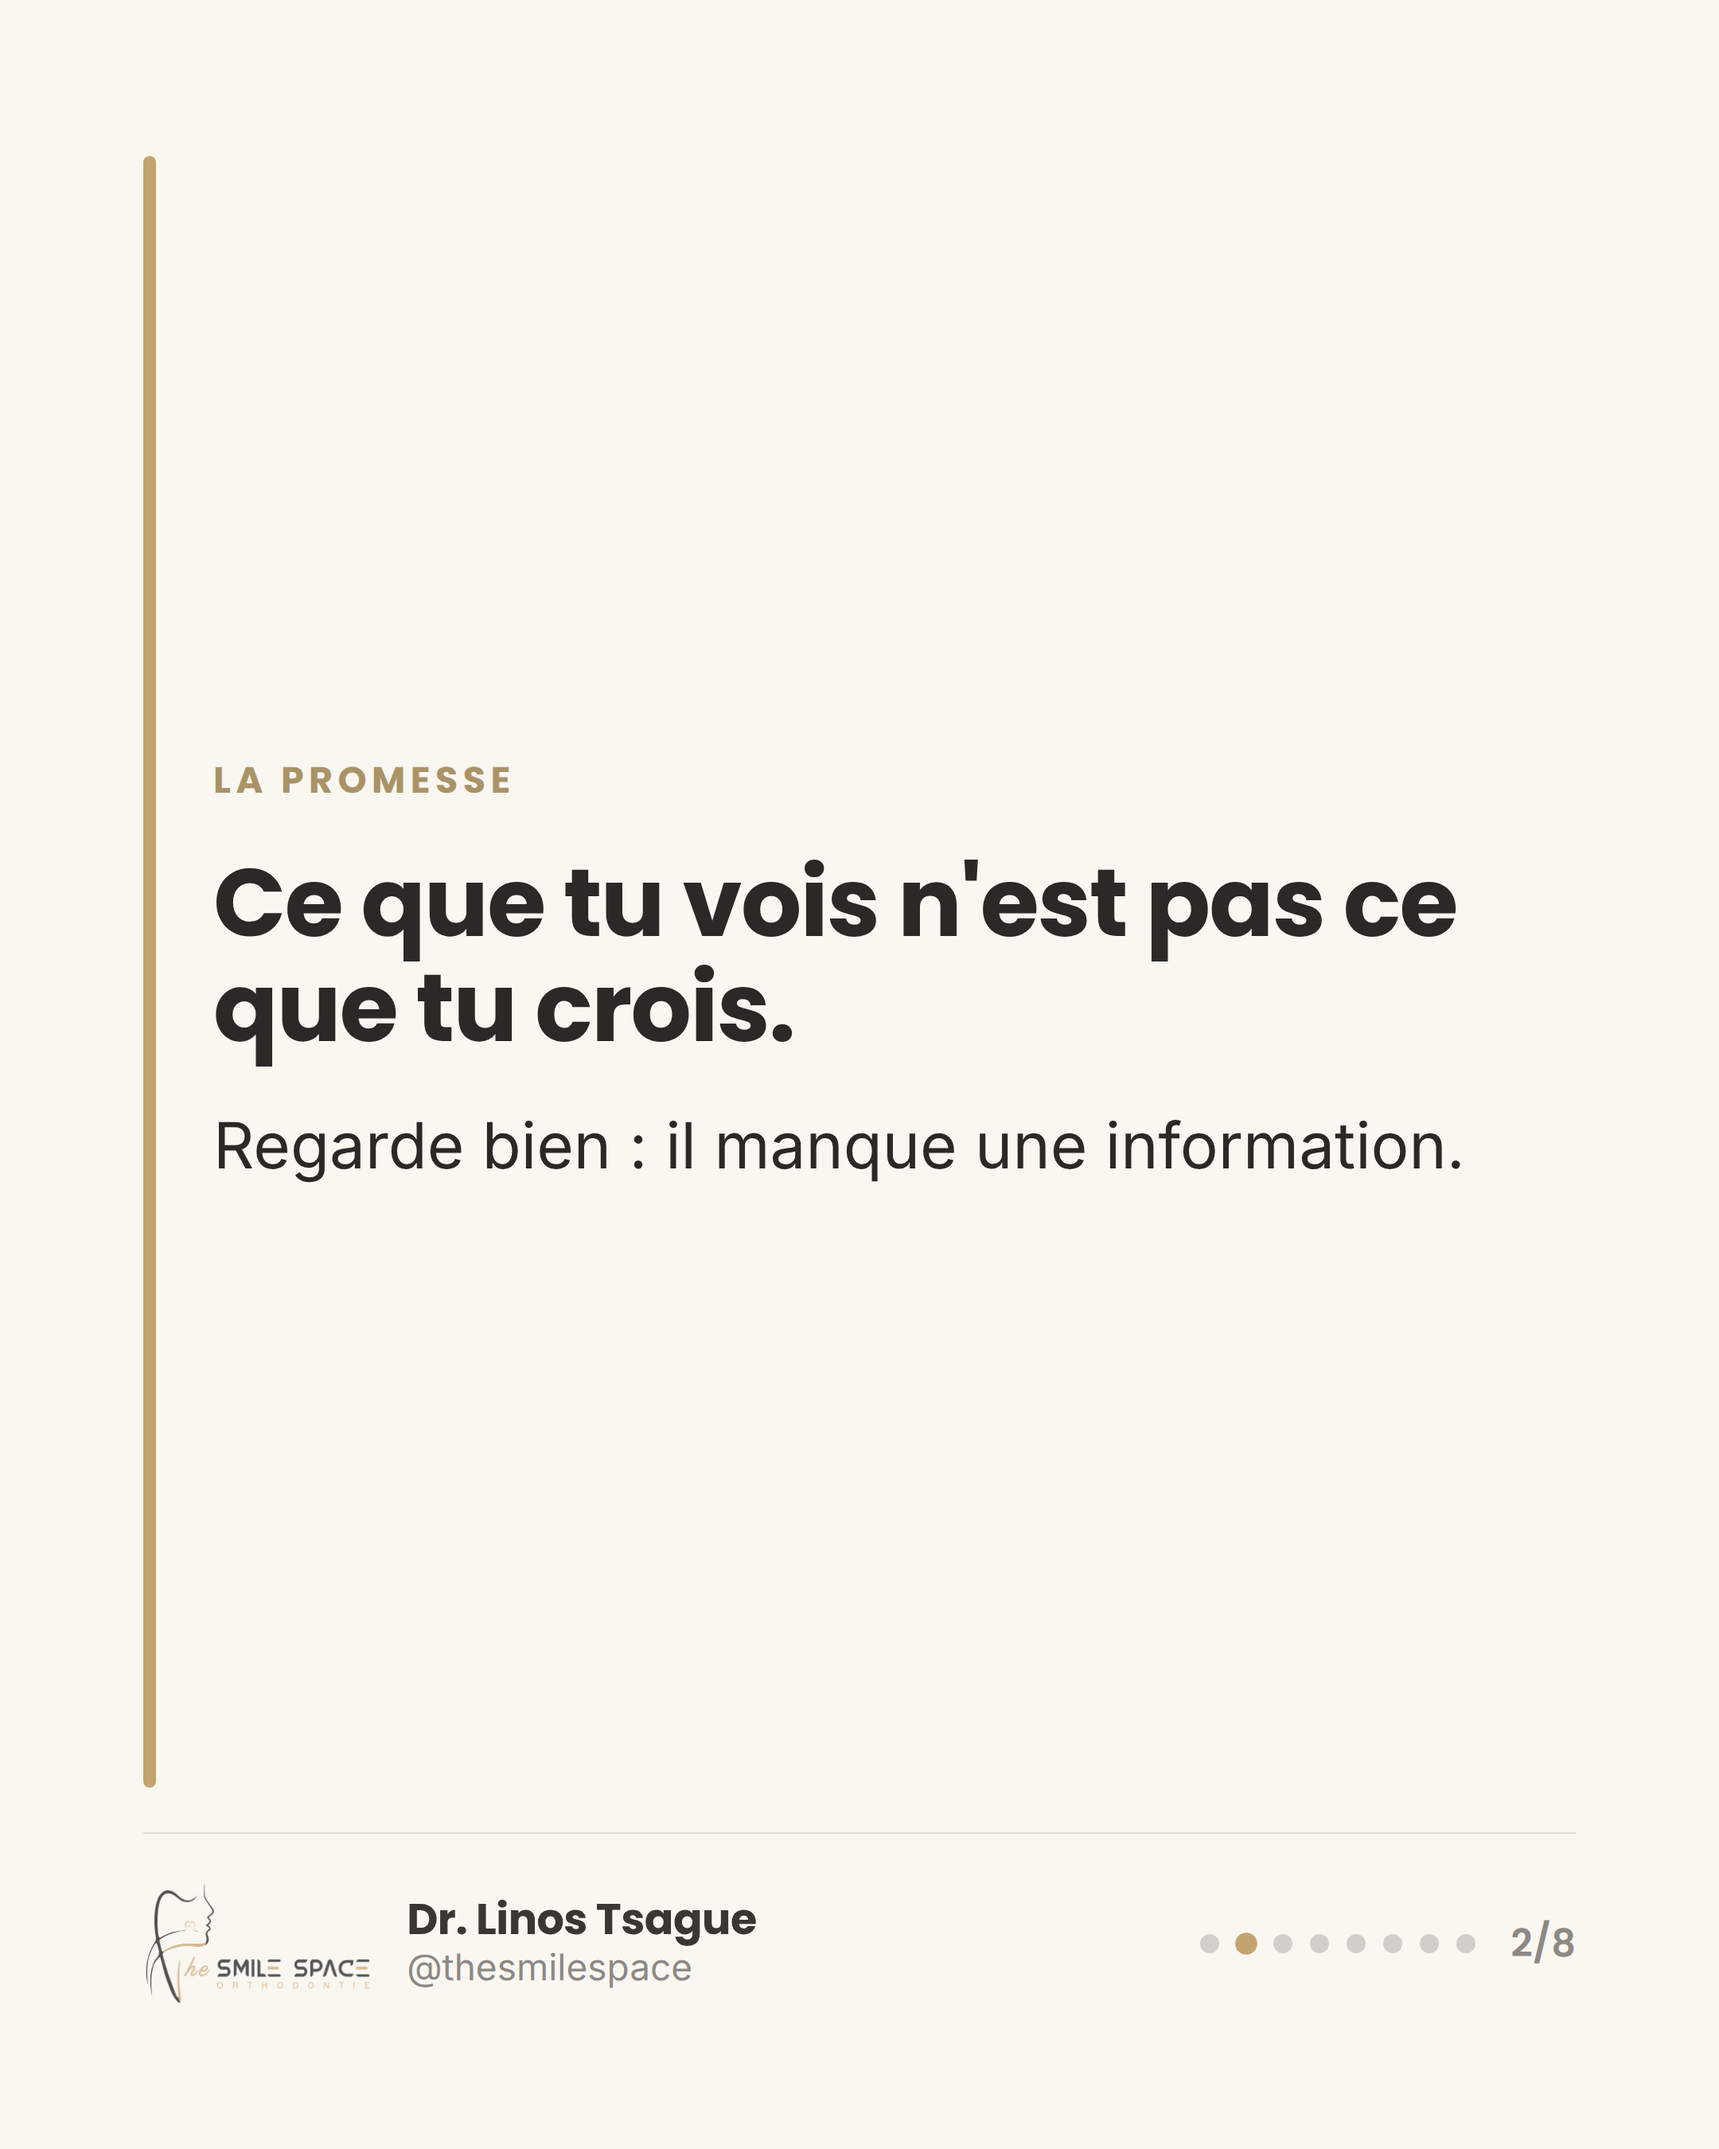
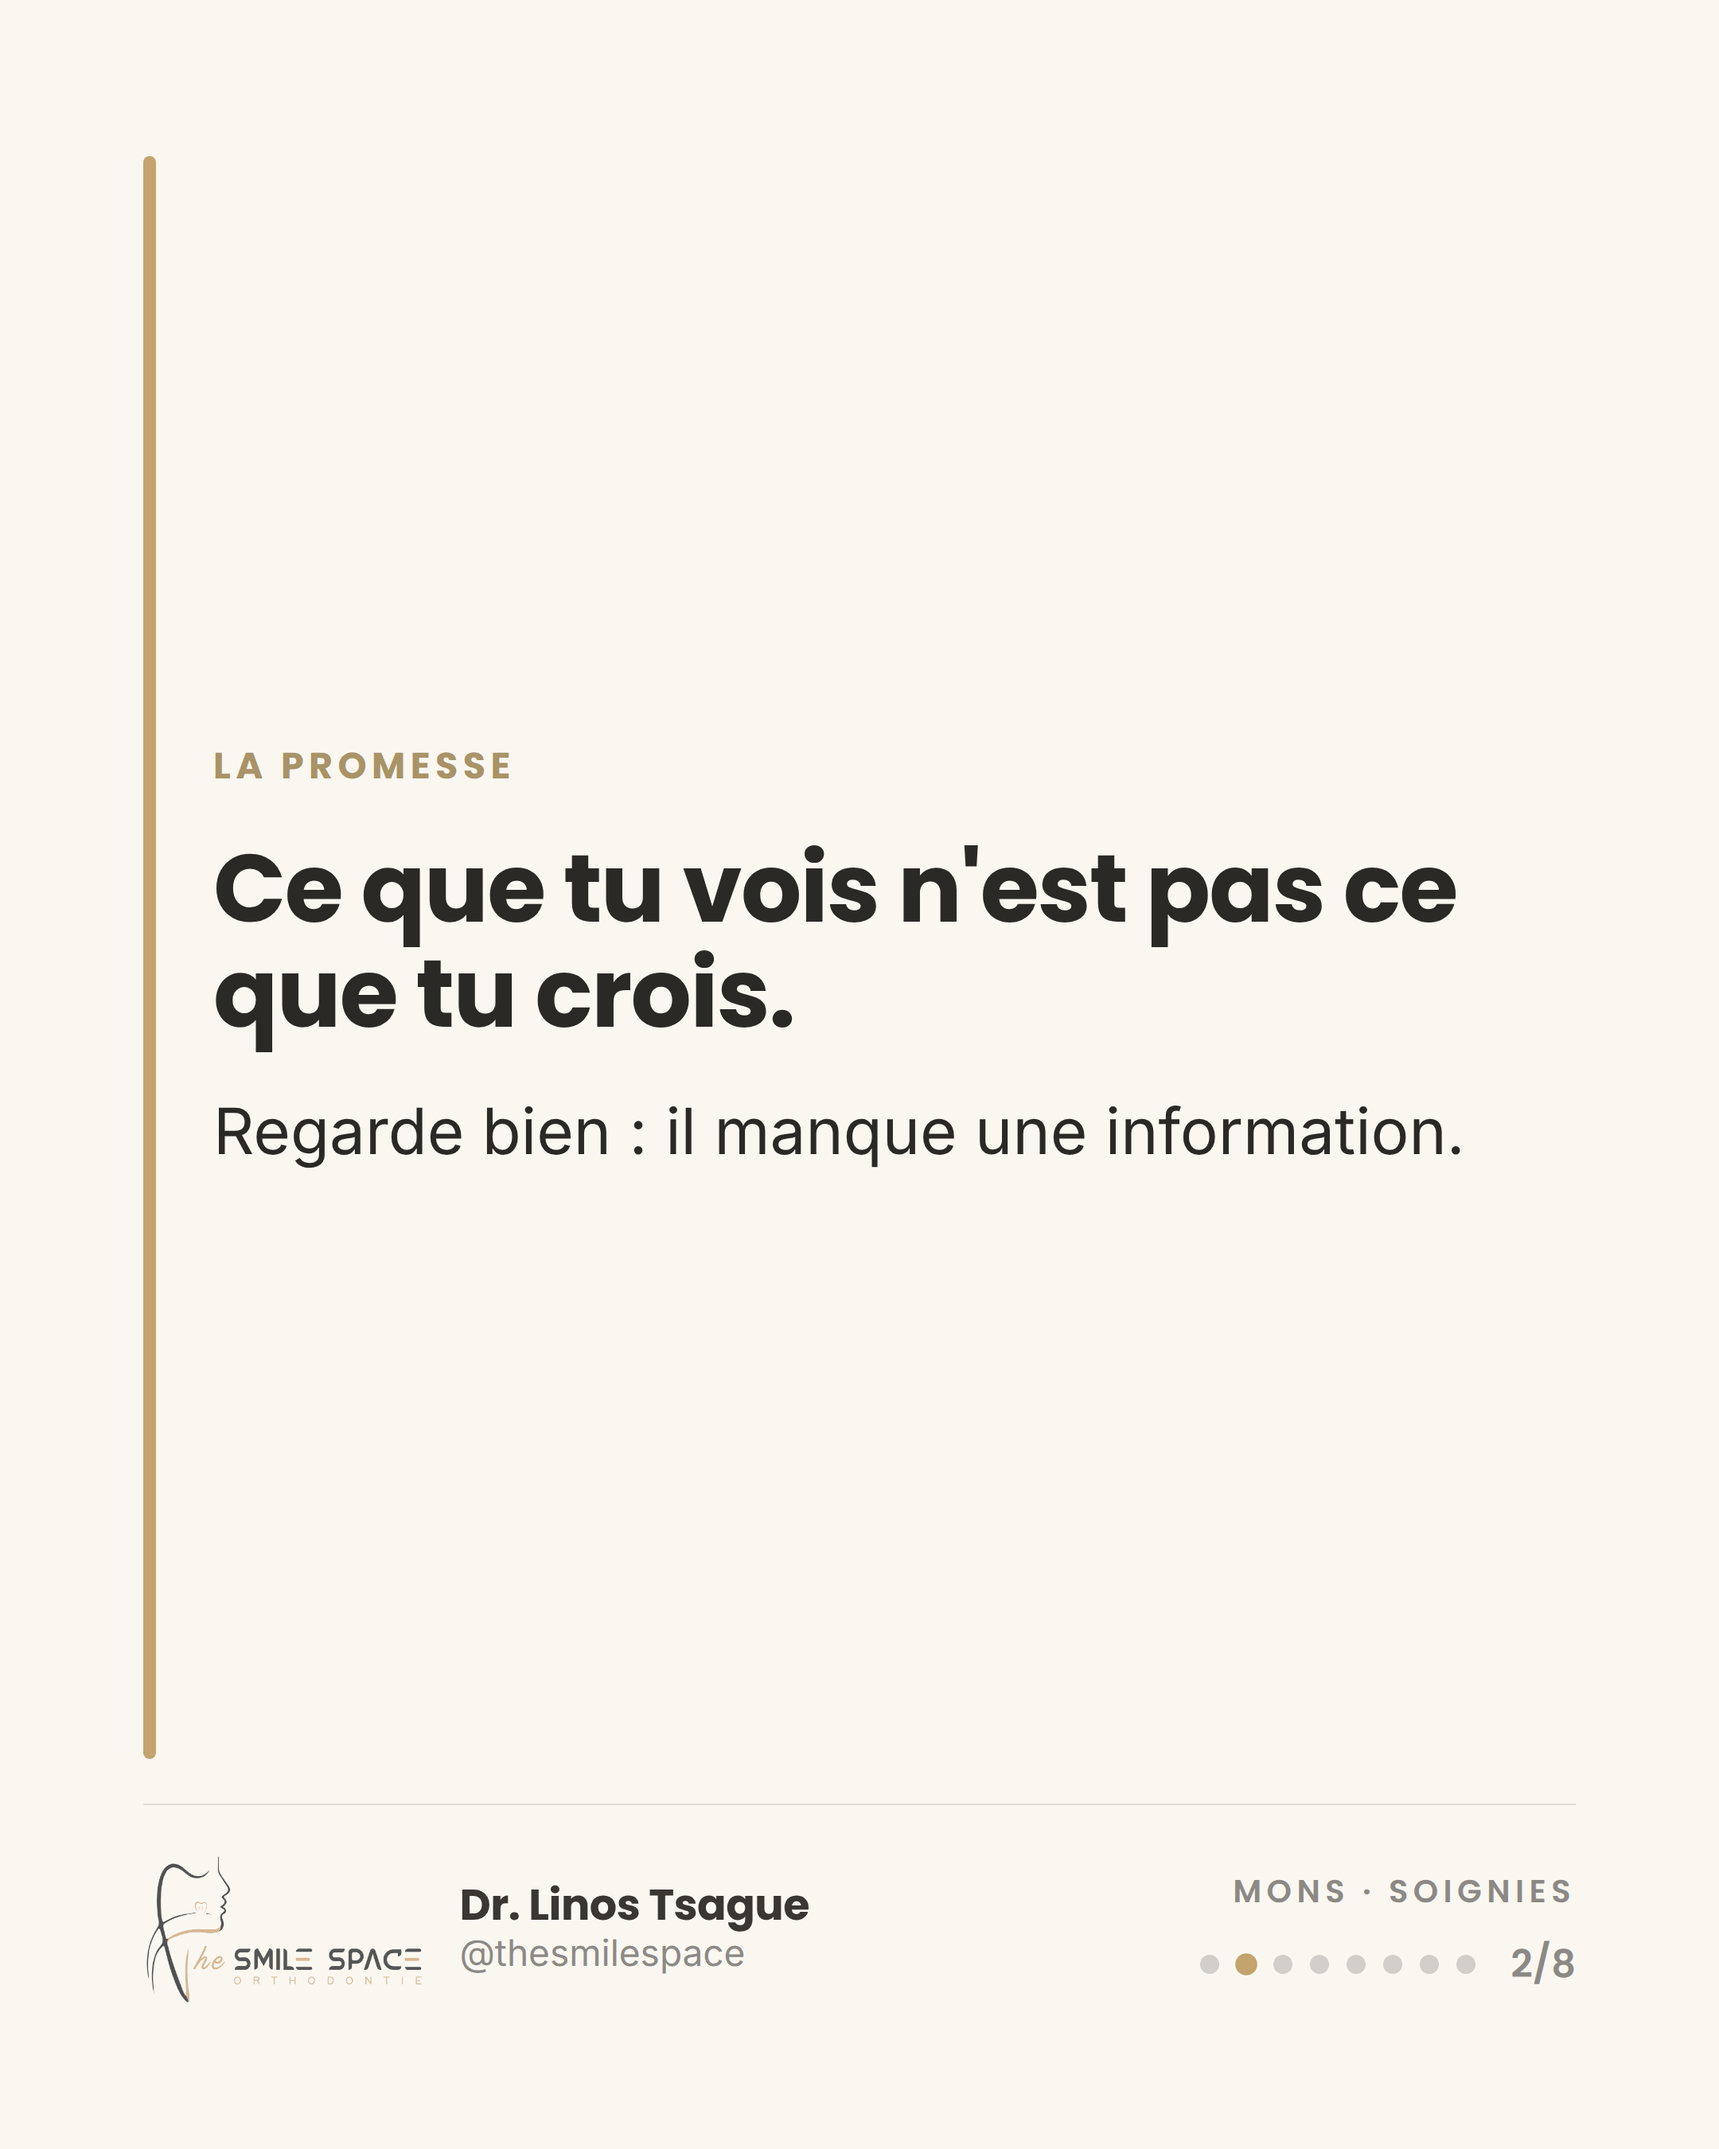
Ajoute les villes des cabinets (Mons · Soignies) au pied de page à droite
Libellé discret au-dessus des points de progression (config.locations).

Claude-Session: https://claude.ai/code/session_014brP78CXMSfVZFDbExkY7E

diff --git a/template.js b/template.js
@@ -116,8 +116,15 @@ function footer({ n, total, index, cfg, logoDataUri, logoLightDataUri, onBrand }
         ${idBlock}
       </div>
       <div class="foot-right">
-        ${dots(index, total)}
-        <span class="pageno">${n}/${total}</span>
+        ${
+          cfg.locations && cfg.locations.length
+            ? `<span class="locations">${esc(cfg.locations.join(" · "))}</span>`
+            : ""
+        }
+        <div class="foot-prog">
+          ${dots(index, total)}
+          <span class="pageno">${n}/${total}</span>
+        </div>
       </div>
     </footer>`;
 }
@@ -330,7 +337,13 @@ body{font-family:var(--f-body);-webkit-font-smoothing:antialiased;text-rendering
 .slide.type-hook .brandtext,.slide.type-cta .brandtext,.slide.type-renversement .brandtext{color:#fff;}
 .handle{font-size:23px;color:var(--muted);}
 .foot.on-brand .handle{color:rgba(255,255,255,.7);}
-.foot-right{display:flex;align-items:center;gap:22px;}
+.foot-right{display:flex;flex-direction:column;align-items:flex-end;gap:14px;}
+.foot-prog{display:flex;align-items:center;gap:22px;}
+.locations{
+  font-family:var(--f-title);font-weight:600;text-transform:uppercase;
+  letter-spacing:.16em;font-size:20px;color:var(--muted);
+}
+.foot.on-brand .locations{color:rgba(255,255,255,.6);}
 .dots{display:flex;gap:11px;}
 .dot{width:12px;height:12px;border-radius:50%;background:rgba(26,26,26,.18);}
 .dot.on{background:var(--accent);transform:scale(1.15);}

diff --git a/config.js b/config.js
@@ -22,6 +22,7 @@ module.exports = {
   // Compte / signature
   handle: "@thesmilespace",
   practitioner: "Dr. Linos Tsague", // nom affiché au pied de page, à côté du logo
+  locations: ["Mons", "Soignies"], // villes des cabinets (pied de page, à droite) — [] pour masquer
   brandName: "The Smile Space",
   logo: "assets/logo.png", // version foncée (fonds clairs) — sinon brandName
   logoLight: "assets/logo-light.png", // version claire (fonds sombres : hook/renversement/cta)
